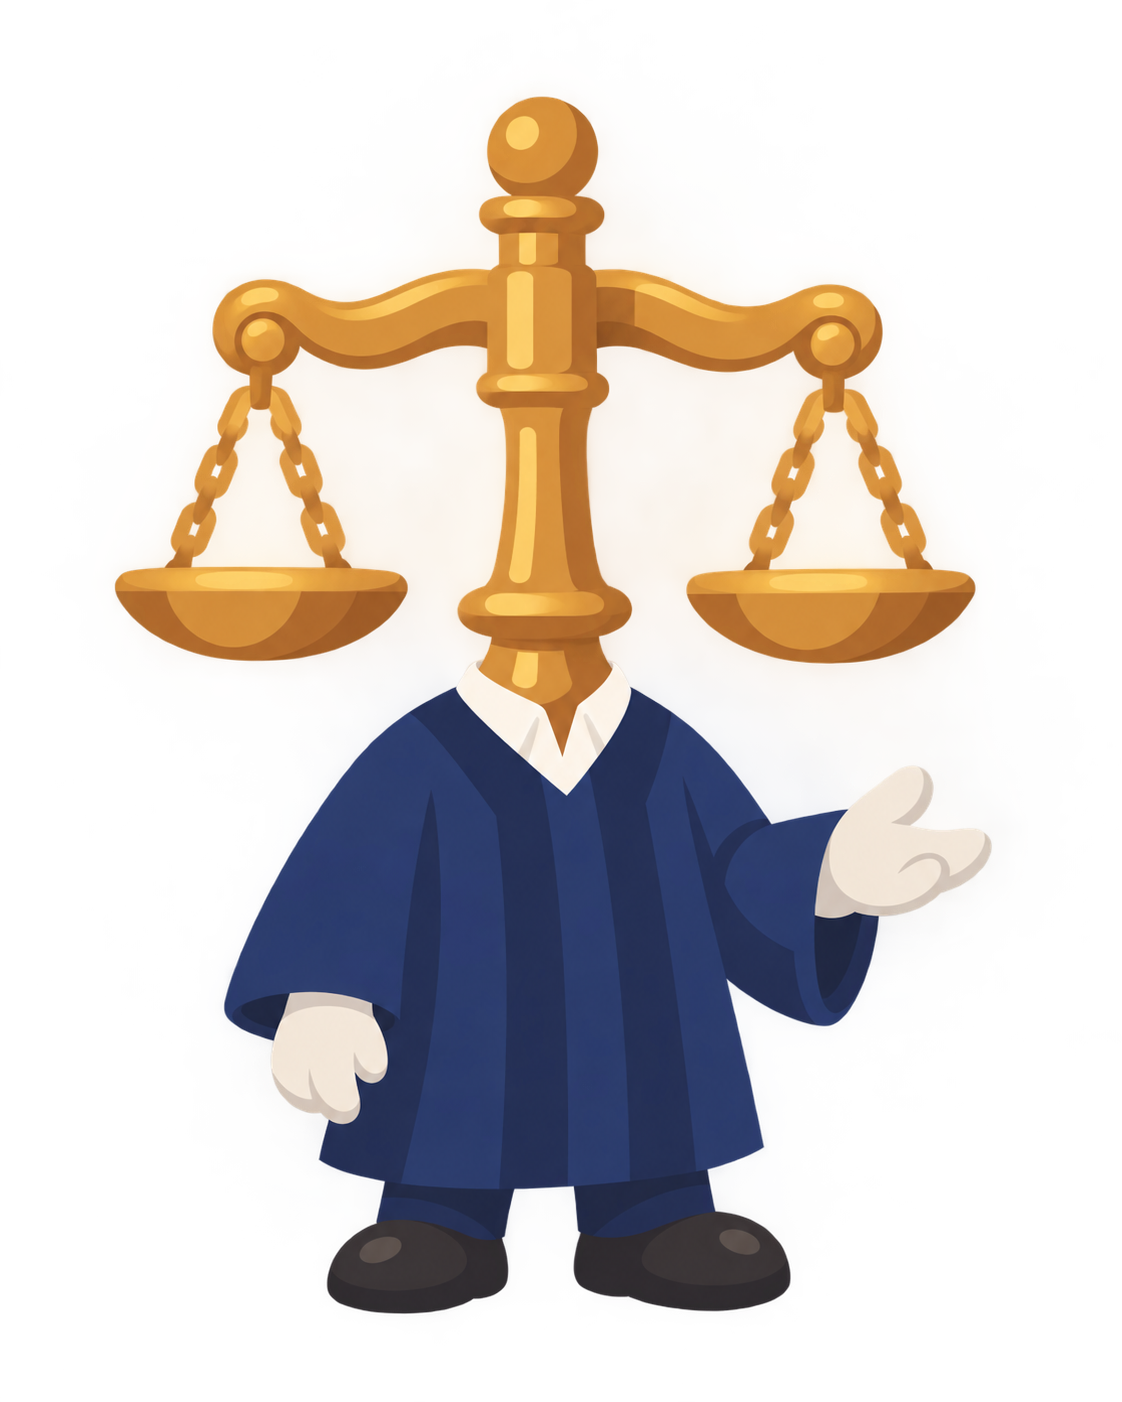
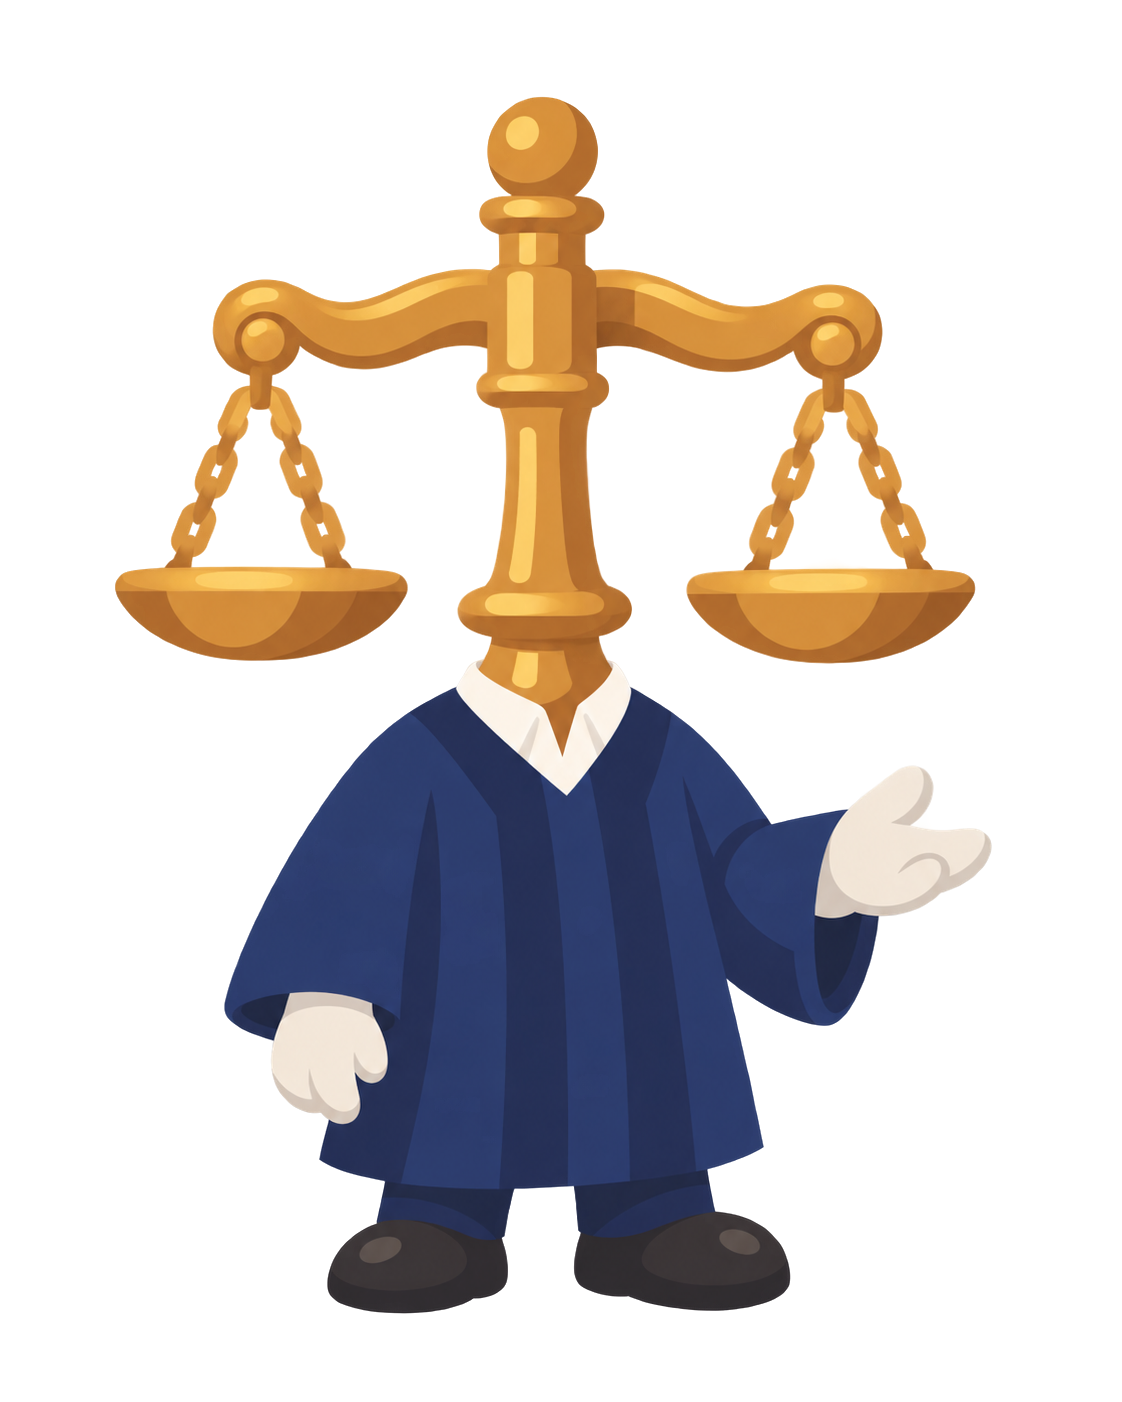
chore : COMMON-49 이미지 검수 결과 · 번짐 보정 PNG 2장 교체 · README 갱신

diff --git a/README.md b/README.md
@@ -32,7 +32,7 @@
 
 예: `naero_standing.png` · `law-gavel_sheet_reference.png` · `nambul_cut_guide-neutral.png` · `naero_icon_face-cheer.png` · `personality-06_naero_pinky-promise.png` · `trio_cut_idle.png` · `reenact-common_cut_headline.png` · `naero_cut-role-judge_idle-neutral.png` · `law-scale_cut-mascot_idle-neutral.png` · `naero_sheet_deform-cheek-slim.png`
 
-- **장면** `idle` · `guide` · `react` · `read` · `cheer` · `deliver`, **감정** `neutral` · `happy` · `surprised` · `thinking` · `sorry` · `cheer`. 화난 표정은 만들지 않는다.
+- **장면** `idle` · `guide` · `react` · `read` · `cheer` · `deliver`, **감정** `neutral` · `happy` · `surprised` · `thinking` · `sorry` · `cheer`. 안내 · 리액션 · 성향 결과 · 아이콘에는 화난 표정을 쓰지 않는다(감정 코드에 `angry` 없음). 재연 · 연기 · 시트에서는 극적 긴장감 · 감정선을 위해 날카롭거나 화난 표정도 허용한다(10/20 완화, 폭력 · 조롱은 금지).
 - **성향 결과**: 번호 `01 ~ 16`은 유형에 고정되어 있다. 한 유형마다 내로 · 남불 두 장이 있다. 번호 · 유형명 · 기본 캐릭터는 공개 저장소의 성향 이미지 번호표를 본다.
 - 이미지 안에는 글자 · 숫자 · 로고를 넣지 않는다.
 - **웹용 이름은 다르다.** 웹 webp는 `{장면}-{감정}.webp`, `01.webp`처럼 별도 규칙이고, 이 저장소의 이름과 대응은 변환할 때 정한다.
@@ -90,11 +90,11 @@ character/
 >
 > 10/20 추가: 로 의상 시트 3장, 5명 라인업 시트 5장, 마스코트 로 컷 9장, 마스코트 합의 · 비교 컷 3장, 내로 · 남불 역할 컷 10장. `cuts/{캐릭터}/base/`를 `scene` · `cheek` · `cheek-slim` · `role` · `mascot` 하위 폴더로 나눴다. 로 데포르메 시트 중 cheek · ranma · ppg 9장은 아직 없다.
 >
-> 10/20 추가(2): 볼따구 컷을 시트 `deform-cheek` 기준(짧은 만두형 몸통 · 납작한 볼)으로 4장 다시 만들어 `base/cheek/`에 넣었다. 이전 컷 4장은 `base/cheek-slim/`(`cut-cheek-slim_*`)으로 이름을 바꿔 보존하고, 그 그림체의 시트 2장(`deform-cheek-slim`)을 새로 만들었다. 새 시트는 눈이 작고 볼 강조가 적은 옛 아기 캐릭터 느낌을 노렸지만 기존 시트와 차이가 크지 않다. 재생성 여부는 검수 후 정한다.
+> 10/20 추가(2): 볼따구 컷을 시트 `deform-cheek` 기준(짧은 만두형 몸통 · 납작한 볼)으로 4장 다시 만들어 `base/cheek/`에 넣었다. 이전 컷 4장은 `base/cheek-slim/`(`cut-cheek-slim_*`)으로 이름을 바꿔 보존하고, 그 그림체의 시트 2장(`deform-cheek-slim`)을 새로 만들었다. 새 시트는 눈이 작고 볼 강조가 적은 옛 아기 캐릭터 느낌을 노렸지만 기존 시트와 차이가 크지 않다. 10/20 결정으로 재생성하지 않고 **그대로 쓴다**.
 >
 > 10/20 추가(3): 배경이 흰색(알파 없음)으로 나온 로봉 · 로북 라인업 시트와 로봉 의상 시트 3장을 배경 제거한 투명본으로 교체했다. 흰 배경 원본은 `_original/`에 `original_{이름}_v1.png`로 보존했다.
 
-10/14에 검수한 이미지는 모두 통과했다(샘플 기준). 10/19 · 10/20에 추가한 이미지는 아직 검수 전이다.
+10/14에 검수한 이미지는 모두 통과했다(샘플 기준). 10/19 · 10/20에 추가한 이미지는 10/20에 검수했고 대부분 통과했다(아래 표의 조건부 항목 참고).
 
 | 묶음 | 상태 |
 | --- | --- |
@@ -105,9 +105,14 @@ character/
 | 성향 결과 32장(16유형 × 내로 · 남불) | ✅ |
 | 공용 재연 컷 6장(세트 1 · 2) | ✅ (세트 2는 10/15 사건 1 샘플에서 옮김) |
 | 연기 · 역할 의상 · 데포르메 시트 | ✅ (란마는 목표 약 5등신에 못 미침, 3 ~ 4등신) |
-| 10/19 · 10/20 추가분(마스코트 로 스탠딩 · 시트 · 컷, 라인업 · 의상 시트, 역할 컷, 사건 1 재연 컷, 소품 시트, 볼따구 컷 재생성 · `cheek-slim` 시트) | 🟨 검수 전 (`cheek-slim` 시트는 기존 시트와 차이가 작아 재생성 검토) |
+| 10/19 · 10/20 추가분(마스코트 로 스탠딩 · 시트 · 컷, 라인업 · 의상 시트, 역할 컷, 사건 1 재연 컷, 소품 시트, 볼따구 컷 재생성 · `cheek-slim` 시트) | ✅ 10/20 검수 통과. 로울 마스코트 `idle-neutral`의 반투명 회색 번짐과 내로 `role-actor`의 셔츠 주변 흰 번짐은 후처리한 파일로 교체했다(옛 파일은 올리지 않고 로컬 `discard/`에 둠). 사건 1 `sub-1`은 남불이 화면에 없는 구도로 설명을 바꿈(사진 그대로 사용). 소품 시트 · `detail-1`의 날카로운 표정은 완화된 표정 규칙에 맞아 문제 없음. `cheek-slim`은 그대로 사용 |
 
-남은 일: 사건별 재연 컷(사건이 정해지면), 후순위 시트(로 cheek · ranma · ppg 데포르메). 최신 목록은 아래 기준 문서를 본다.
+남은 일: 없음. 아래는 **보류**한다.
+
+- 사건별 재연 컷: 사건이 아직 정해지지 않았고 관리자 페이지에서 넣을 수도 있어 보류.
+- 로 데포르메 세부 시트(`cheek` · `ranma` · `ppg` 9장): 종합 시트(`deform-lineup`)가 있어 보류, 필요하면 후속에서 생성.
+
+성인 비율 로(`law-*_standing`, `law-*_cut_*`, `trio_cut_*`, `compare_cut_trio-thinking`, 로 의상 시트)는 마스코트 로로 화면을 바꾼 뒤에도 쓸 예정이라 그대로 둔다. 최신 목록은 아래 기준 문서를 본다.
 
 ## 기준 문서
 
